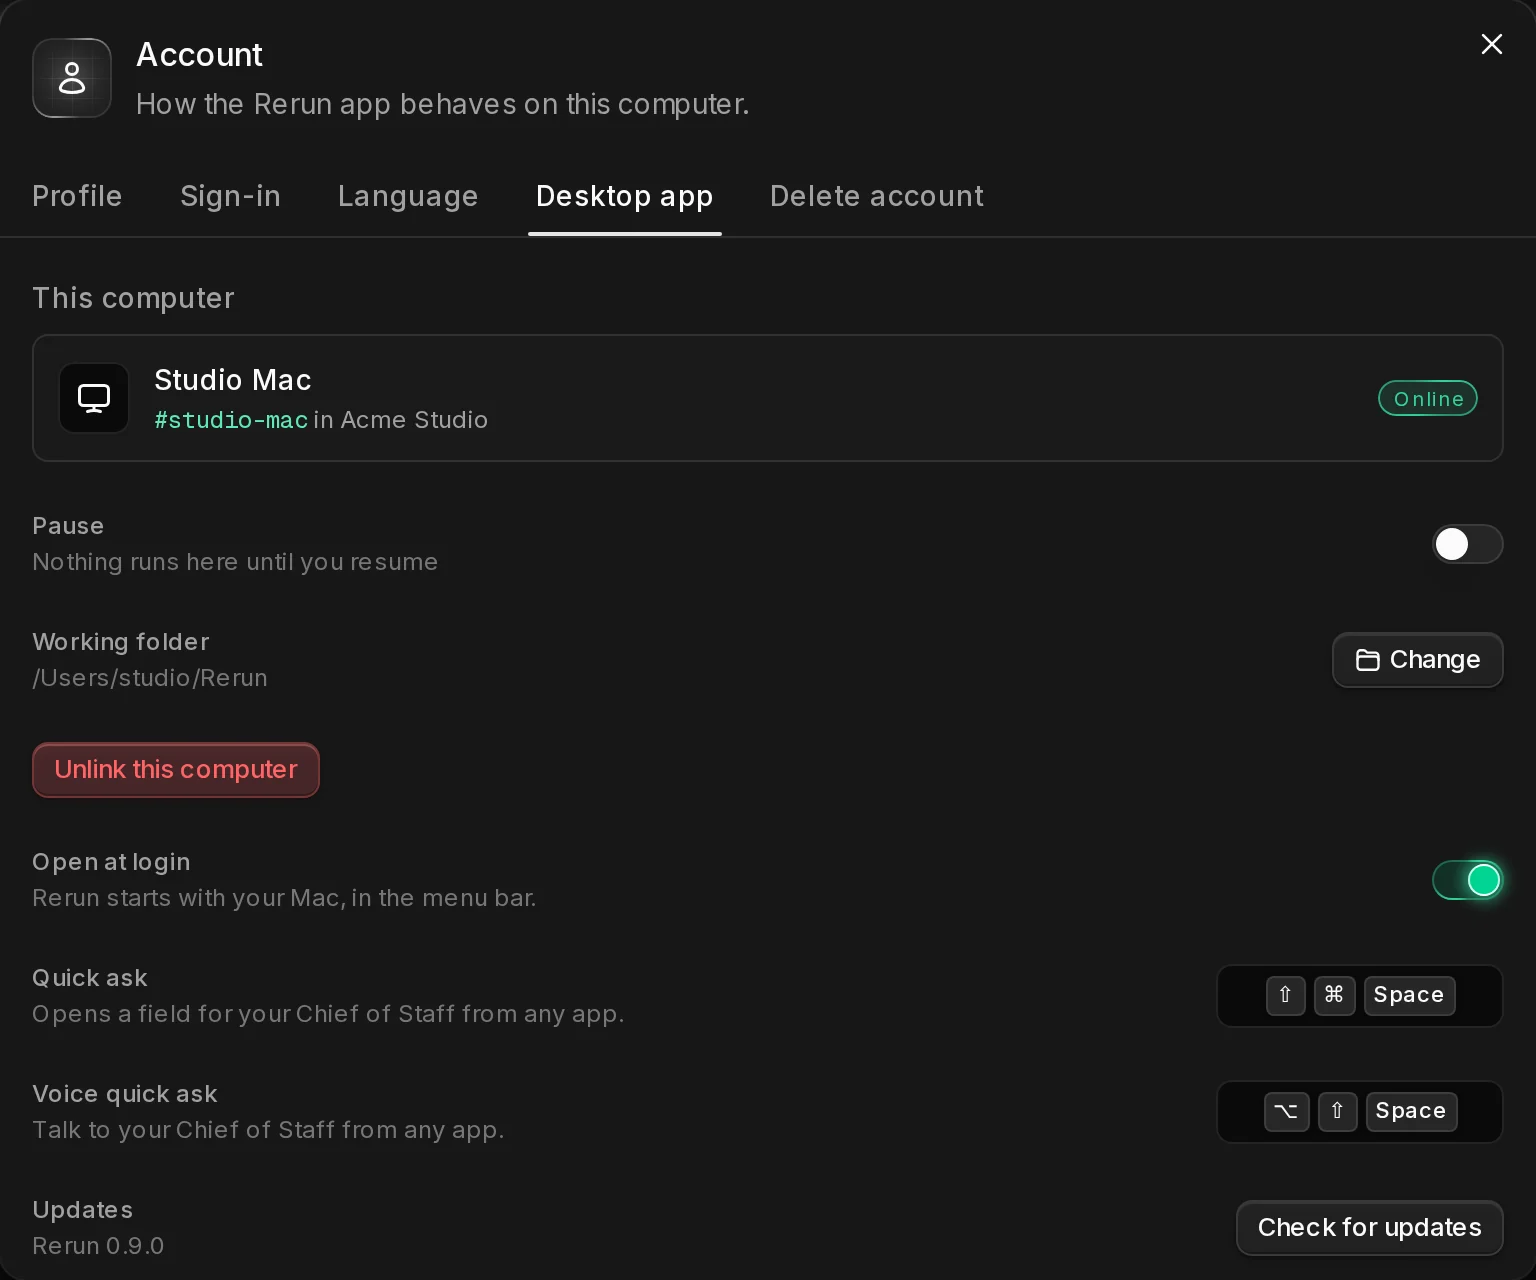
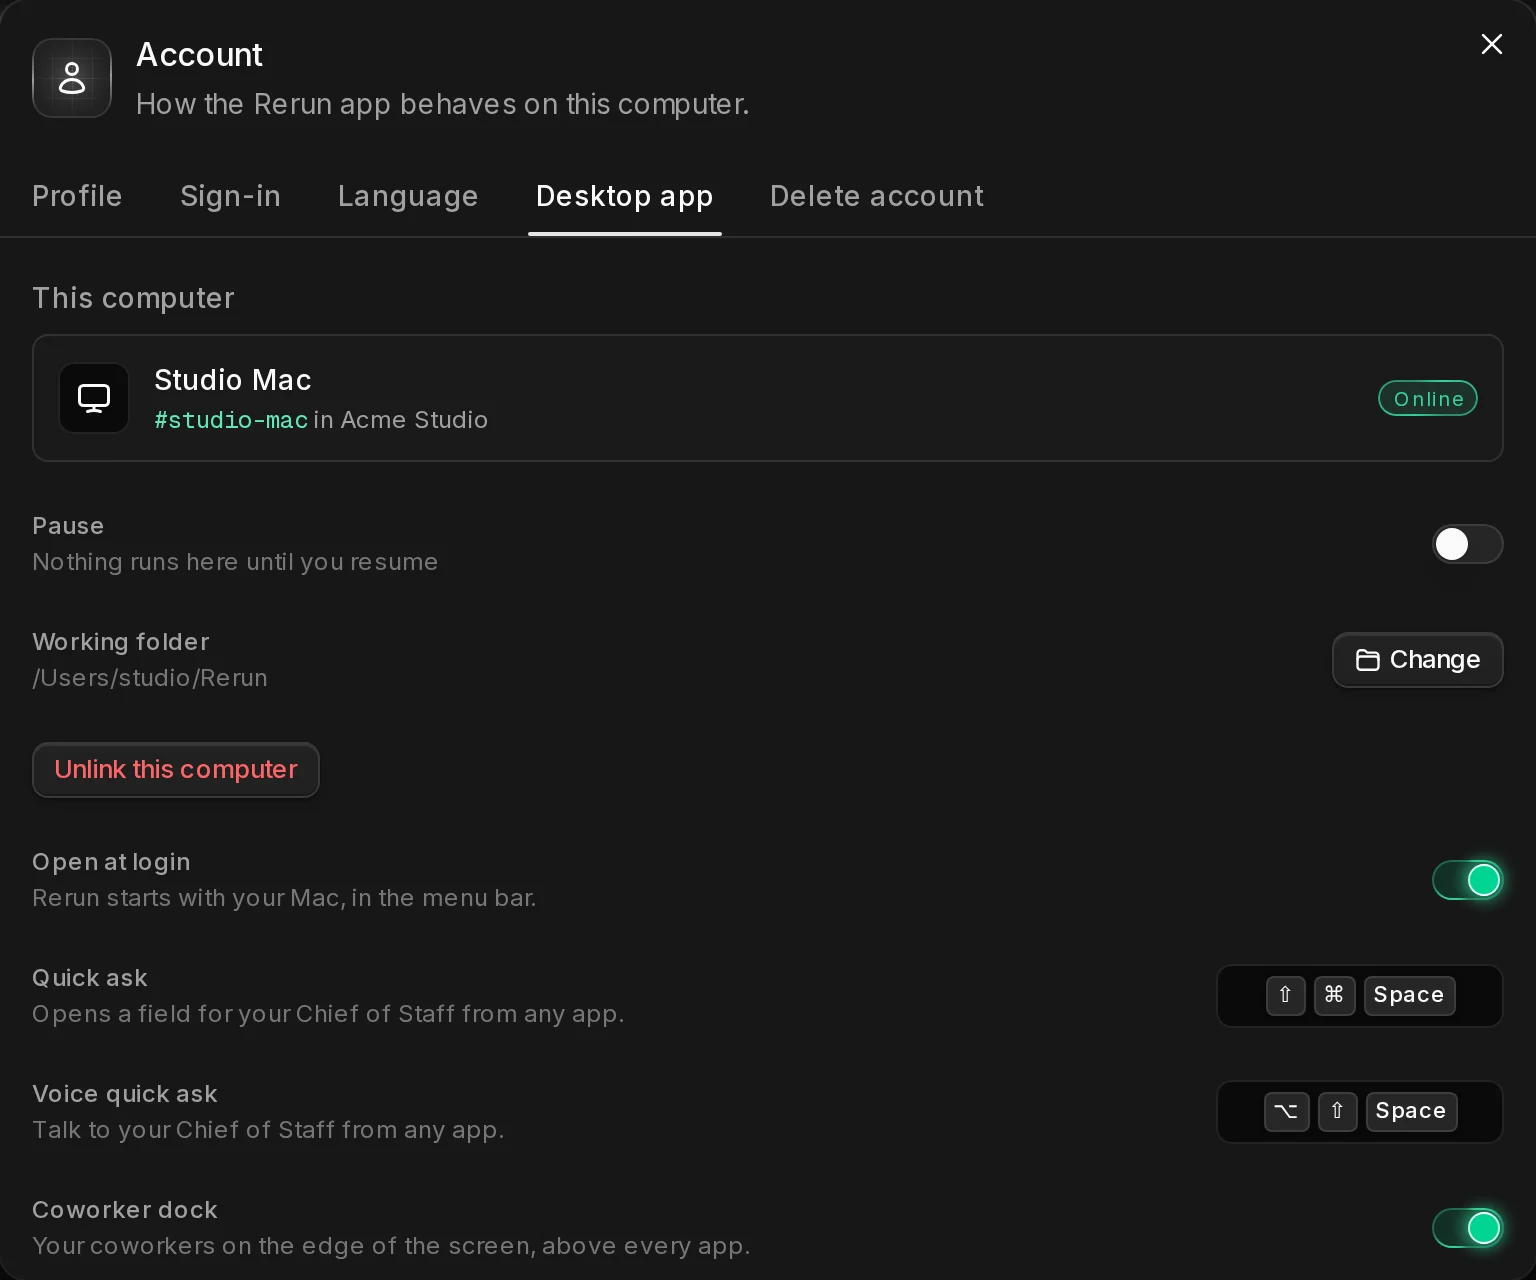
feat(desktop): the Coworker dock switch in the settings, its docs and its e2e scenario (#525)

diff --git a/apps/ui/components/account/DesktopAppPanel.tsx b/apps/ui/components/account/DesktopAppPanel.tsx
@@ -86,6 +86,11 @@ export function DesktopAppPanel() {
                             />
                         </Field>
                     )}
+                    {settings.coworkerDock !== undefined && (
+                        <Field orientation="row" label={t('coworkerDock')} helperText={t('coworkerDockHint')} htmlFor="desktop-coworker-dock">
+                            <Switch id="desktop-coworker-dock" checked={settings.coworkerDock} onCheckedChange={(coworkerDock) => void change({ coworkerDock })} />
+                        </Field>
+                    )}
                     {shell.platform !== 'mac' && (
                         <Field orientation="row" label={t('closeToTray')} helperText={t('closeToTrayHint')} htmlFor="desktop-close-to-tray">
                             <Switch id="desktop-close-to-tray" checked={settings.closeToTray} onCheckedChange={(closeToTray) => void change({ closeToTray })} />

diff --git a/apps/desktop-app/README.md b/apps/desktop-app/README.md
@@ -96,6 +96,15 @@ follows the server the window shows, not only the configured one.
   and a second press sends instead of putting the window away. A window the shell puts away while it
   listens stops listening and sends nothing (`quickAsk.onHidden`). The text goes to the main window through the origin's localStorage, never a
   URL a link could forge, and the main window asks it in a new conversation.
+- The coworker dock (`coworker-dock.ts`, capability `coworkerDock`): a transparent window as tall as
+  the screen, glued to an edge (`/coworker-dock`), on top of every app and every desktop. The page
+  draws the rail; outside it the clicks go through (`setIgnoreMouseEvents` with forwarding, a pointer
+  poll on Linux). The main window publishes the coworkers and their counts (`coworkerDock.publish`),
+  so the dock follows its workspace and its badge; a click on a buddy or on "+" goes back to it. A
+  workspace without coworkers publishes nothing, and "+" carries the reason it is disabled
+  (`createBlockedReason`). A full navigation of the main window that publishes nothing again within
+  10 s (the offline page, sign-in) hides the dock. The edge, the height, the display and the folded
+  state live in `settings.json`.
 - New Window (⌘⇧N): another window of the same session; each keeps its own workspace (the web
   holds it per tab).
 - Menus and tray in the language the person reads Rerun in (`locale.set`), a right-click menu
@@ -128,6 +137,7 @@ pnpm verify:desktop --scenario apps/desktop-app/e2e/links.mjs
 pnpm verify:desktop --scenario apps/desktop-app/e2e/native.mjs
 pnpm verify:desktop --scenario apps/desktop-app/e2e/open-links.mjs
 pnpm verify:desktop --onboarded --engine --scenario apps/desktop-app/e2e/quick-ask.mjs
+pnpm verify:desktop --onboarded --engine --scenario apps/desktop-app/e2e/coworker-dock.mjs
 pnpm verify:desktop --signed-out --scenario apps/desktop-app/e2e/self-hosted.mjs
 pnpm verify:desktop --scenario apps/desktop-app/e2e/launch.mjs
 pnpm verify:desktop --packaged --scenario apps/desktop-app/e2e/shell.mjs # the packaged app, fuses on
